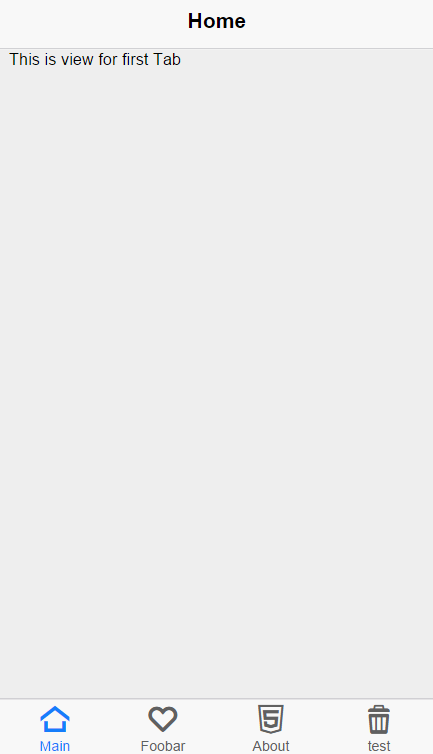
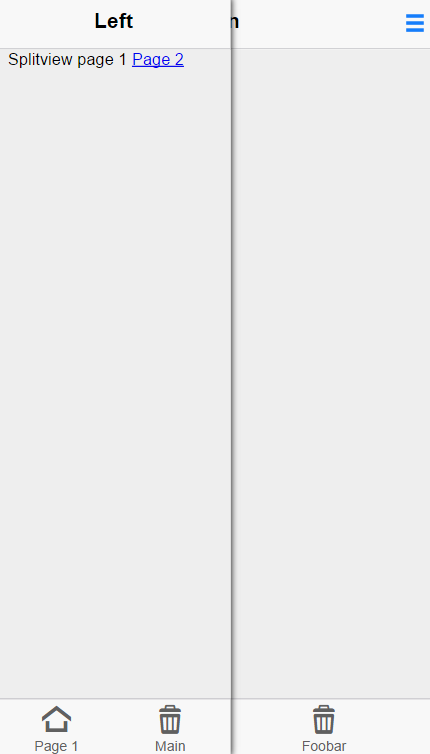
オーバーフローメニューに変更

diff --git a/www/index.html b/www/index.html
@@ -4,7 +4,7 @@
 
 <head>
 
-    <title>Tab View Template</title>
+    <title>App Framework Kitchen Sink</title>
     <meta http-equiv="Content-type" content="text/html; charset=utf-8">
     <meta name="viewport" content="width=device-width, initial-scale=1.0, maximum-scale=1.0, minimum-scale=1.0, user-scalable=0, minimal-ui">
     <meta name="apple-mobile-web-app-capable" content="yes" />
@@ -16,57 +16,55 @@
 
     <script type="text/javascript" charset="utf-8" src="lib/jquery.min.js"></script>
     <script type="text/javascript" charset="utf-8" src="lib/fastclick.min.js"></script>
-    <script type="text/javascript" charset="utf-8" src="lib/appframework/appframework.ui.min.js"></script>  
-
+    <script type="text/javascript" charset="utf-8" src="lib/appframework/appframework.ui.min.js"></script>
+        
     <script src='cordova.js'></script>
+
 
 </head>
 
 <body>
-
     <div id="splashscreen" class='ui-loader heavy'>
-        App Framework - Tab View
+        App Framework
         <br>
         <br>
         <span class='ui-icon ui-icon-loading spin'></span>
         <h1>Starting app</h1>
     </div>
 
-    <div class="view">
+    <div class="view splitview">
+        
         <header>
+            <a class="menuButton" data-left-menu="left" data-transition="cover" style="float:left"></a>
             <h1>Title</h1>
         </header>
-
+        
         <div class="pages">
-
-            <!--Tab View Pages-->
-            <div class="panel" data-title="Home" id="tab1" data-selected="true">
-                This is view for first Tab
+            <div class="panel" id="main" data-title="Main" data-selected="true">
+                This is main page
             </div>
-
-            <div class="panel" data-title="Favorites" id="tab2" >
-                This is view for second Tab
+            <div class="panel" id="page2" data-title="Page 2">
+                This is Page 2
             </div>
-
-            <div class="panel" data-title="Messages" id="tab3">
-                This is view for third Tab
-            </div>
-
-            <div class="panel" data-title="Profile" id="tab4">
-                This is view for fourth Tab
-            </div>
-
         </div>
 
-        <footer>
-            <a href="#tab1" class="icon home" onclick="$.afui.clearHistory()">Home</a>
-            <a href="#tab2" class="icon heart" onclick="$.afui.clearHistory()">Favorites</a>
-            <a href="#tab3" class="icon message" onclick="$.afui.clearHistory()">Messages</a>
-            <a href="#tab4" class="icon user" onclick="$.afui.clearHistory()">Profile</a>
-        </footer>
+        <nav id="left">
+            <div class="view active">
+                <header>
+                    <h1>Left</h1>
+                </header>
+                <div class="pages">
+                    <div class="panel active" id="navPage1" data-title="Foobar">
+                        <ul class="list">
+                            <li><a href="#main" onclick="$.afui.clearHistory()">Main Page</a></li>
+                            <li><a href="#page2" onclick="$.afui.clearHistory()">Page Two</a></li>
+                        </ul>
+                    </div>
+                </div>
+            </div>
+        </nav>
+
     </div>
-
-
 </body>
 
 </html>

diff --git a/README.md b/README.md
@@ -1,7 +1,6 @@
-Tab View App
-=================
-
-This template can be used for simple tab view application that has tabs at the bottom to switch views, this template can be used for creating applications similar to Phone app, Facebook* app or Instagram* app.
+Side Menu App
+==================
+This template can be used for simple app with side menu that can be opened to switch views, this template can be used for creating applications similar to Youtube* app or Gmail* app.
 
 This basic HTML5 mobile app template is created using [Intel App Framework](https://github.com/01org/appframework), which is a free and open source Javascript framework targeted at HTML5 Mobile browsers with a blazingly fast query selector library and Mobile UI framework for creating app with native like UI and performance.
 
@@ -9,7 +8,7 @@ You can use Intel AppFramework to create __mobile web apps__ or create __hybrid 
 
 App Framework has UI themes which look and feel similar to _iPhone_, _iPad_, _Android_, _Windows Phone_, _Blackberry 10_ and _Tizen_, the UI theme will be automatically applied by default when opened on these devices. Notice the screenshots below, the app code is same but the look and feel changes to match the device's native style.
 
-![TabViewApp](https://raw.github.com/gomobile/template-tab-view/master/screenshot.png)
+![SideMenuApp](https://raw.github.com/gomobile/template-side-menu/master/screenshot.png)
 
 Intel(R) XDK
 -------------------------------------------
